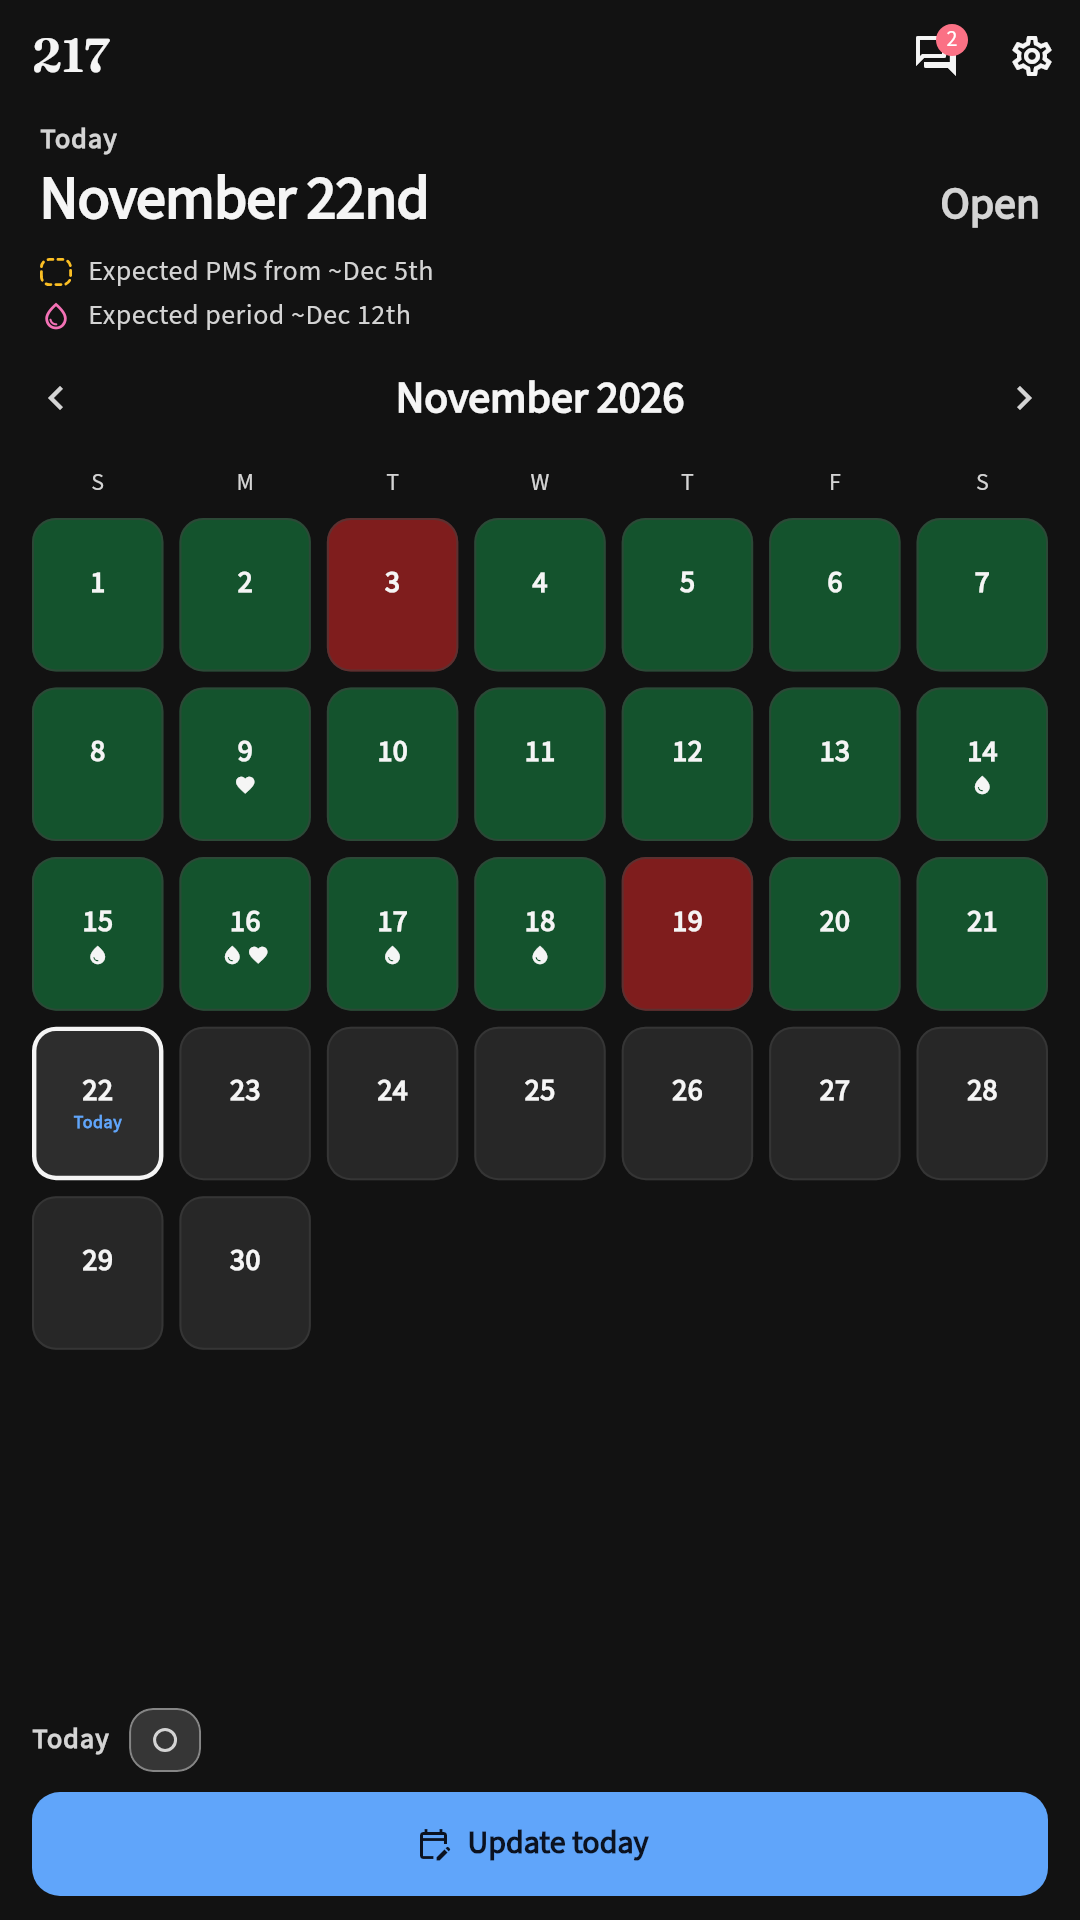
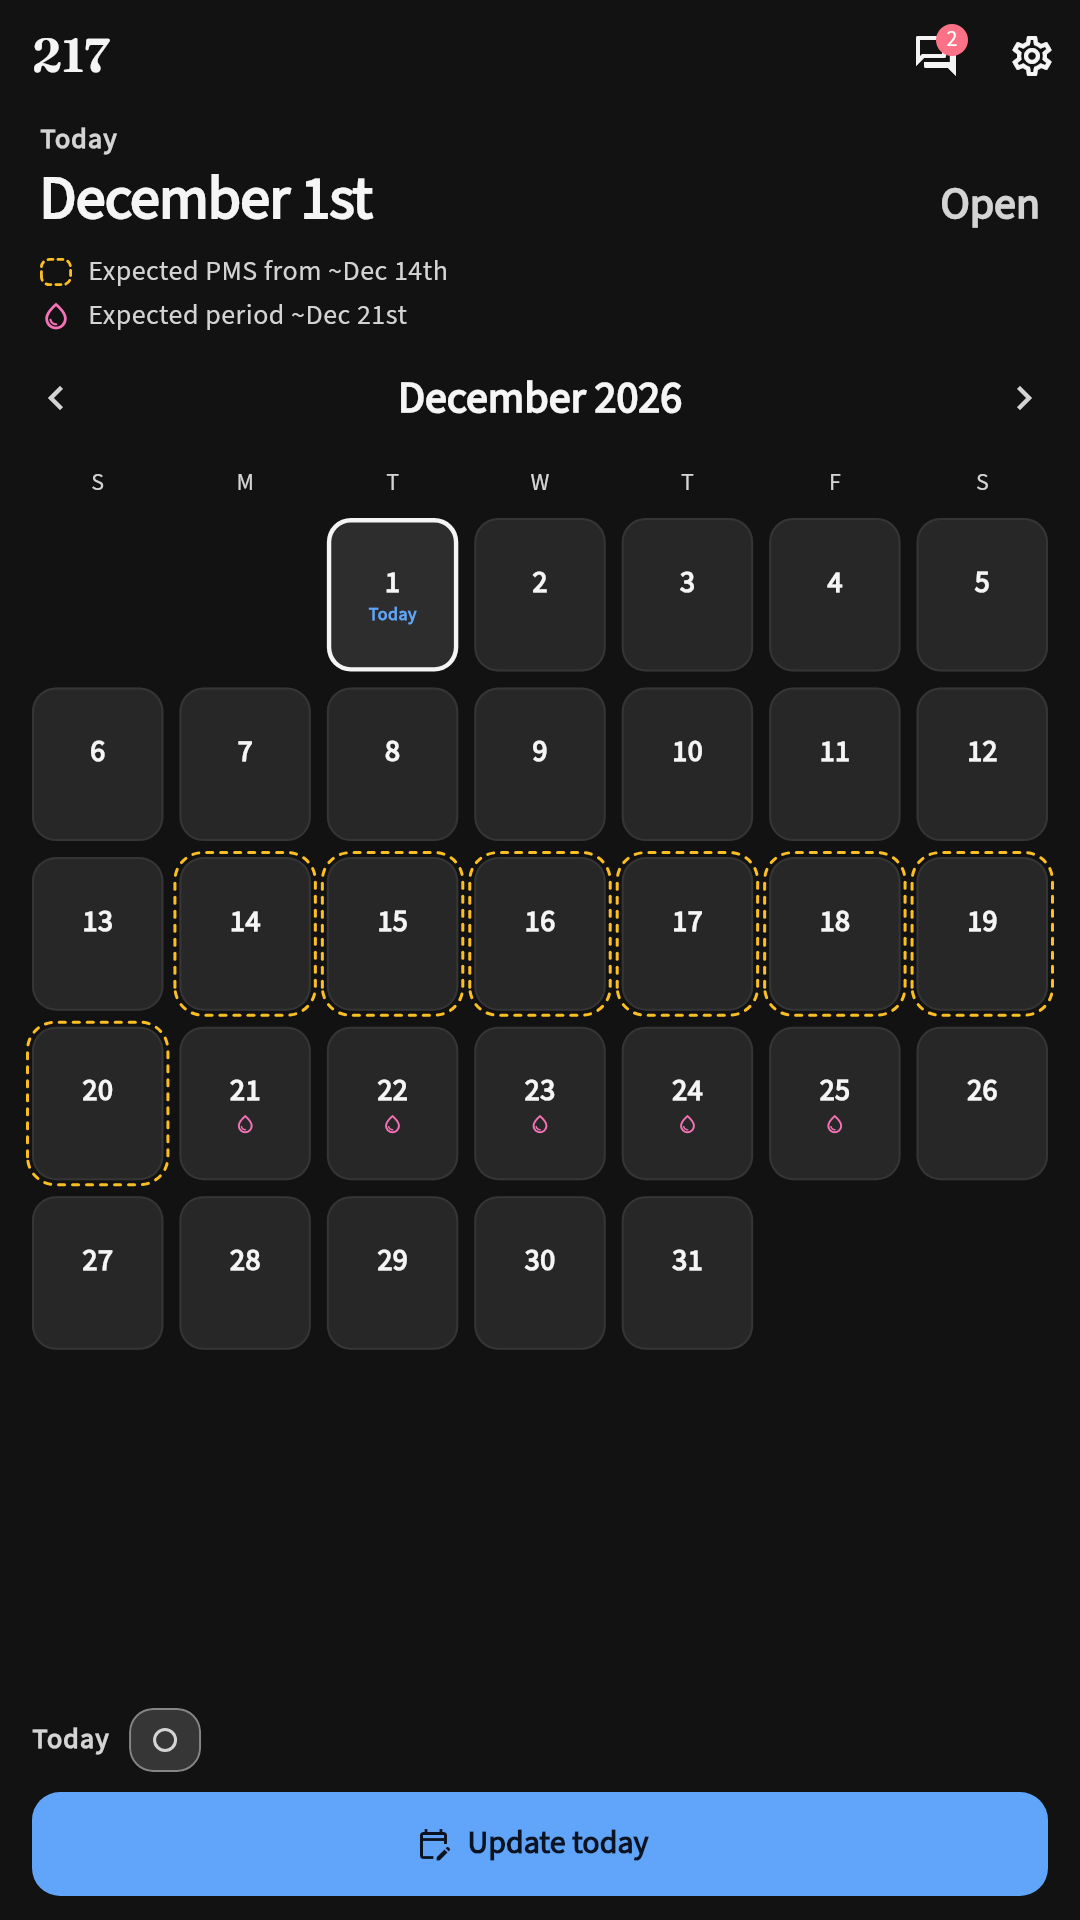
chore(assets): pin store screenshot date to December 1

diff --git a/frontend/tool/store_screenshots_test.dart b/frontend/tool/store_screenshots_test.dart
@@ -2,8 +2,8 @@
 // listing. Not part of `flutter test` (it lives outside test/); run it through
 // ../render-screenshots.sh, which passes --update-goldens.
 //
-// The sample data is relative to today's date, so the calendars always show a
-// full previous month and upcoming predictions.
+// The sample data is relative to a pinned date (1 December 2026), so the
+// calendars always show a full previous month and upcoming predictions.
 import 'dart:io';
 
 import 'package:flutter/material.dart';
@@ -24,7 +24,8 @@ import 'package:a217/src/theme/app_theme.dart';
 String _key(DateTime d) =>
     '${d.year}-${d.month.toString().padLeft(2, '0')}-${d.day.toString().padLeft(2, '0')}';
 
-final _now = DateTime.now();
+// Pinned so the store screenshots always show the same date.
+final _now = DateTime(2026, 12, 1, 12);
 final _today = DateTime(_now.year, _now.month, _now.day);
 DateTime _ago(int d) => _today.subtract(Duration(days: d));
 DateTime _ahead(int d) => _today.add(Duration(days: d));
@@ -216,6 +217,7 @@ void main() {
             user: u,
             share: s,
             strings: strings,
+            clock: () => _now,
             onOpenSettings: () {},
           );
 
